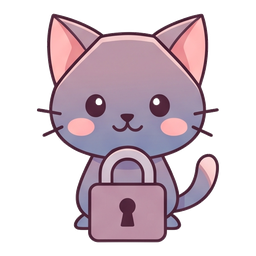
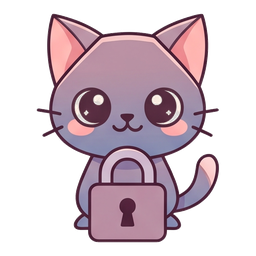
feat: bolinha no monitor dockado, animacoes de minimizar/restaurar, Kami novo e integracao IA
- bolinha abre no monitor onde o rail esta dockado, canto direito na altura 185 (clamp por monitor) e valida a posicao salva contra o monitor dockado
- minimizar anima o rail encolhendo ate a bolinha (window::shrink_to) e restaurar expande da bolinha ao rail (show_docked animated)
- duracoes de animacao do Rust mais longas (200/320/480/650 ms)
- novo mascote Kami (folha 3x3 recortada), poses e icones regerados
- Configuracoes: 'Integracao OpenCode' virou 'Integracao IA' com texto copiavel para qualquer IA
- nota do agente consolidada como indice

diff --git a/src/App.tsx b/src/App.tsx
@@ -569,11 +569,22 @@ function Editor({
   );
 }
 
-const OPENCODE_HELP = `Skill \`hashimemo\` em \`~/.config/opencode/skills/hashimemo/SKILL.md\` e regra no \`AGENTS.md\` global: toda sessão sabe que as notas ficam neste rail e como ler/gravar.
+const OPENCODE_HELP = `Cole este texto na IA que você usa (ChatGPT, Claude, Gemini, Copilot ou um agente local) para ela aprender a ler e gravar aqui.
 
-Comandos de sessão: \`/nota <texto>\` grava no grupo OpenCode; \`/notas [termo]\` lista ou busca.
+---
 
-CLI no PATH: \`hashimemo list|search|read|edit|context|new\`. Grupo OpenCode = aba no rail.`;
+Você tem acesso ao HashiMemo, um app local de notas em Markdown na borda da tela.
+
+- Pasta das notas: \`C:\\Users\\voxdata\\HashiMemo\\notes\` (um .md por nota, frontmatter YAML com title, group, color, pinned, hidden, remind_at, protected).
+- CLI no PATH: \`hashimemo\`.
+- Comandos: \`hashimemo list\`, \`hashimemo search "termo"\`, \`hashimemo read "id ou trecho"\`, \`hashimemo new --group OpenCode --title "Título" "corpo"\`, \`hashimemo edit "trecho" --append "linha"\`, \`hashimemo context --notes 5\`, \`hashimemo path\`.
+- Notas com \`protected: true\` estão cifradas e não podem ser lidas por você.
+- Ao criar algo para o usuário ler (decisão, pendência, resumo), grave no grupo \`OpenCode\` e responda só com o título.
+- Nunca copie senhas ou segredos da nota para o chat.`;
+
+function copyText(value: string) {
+  void navigator.clipboard.writeText(value).catch(() => {});
+}
 
 function SettingsPanel({
   settings,
@@ -822,8 +833,19 @@ function SettingsPanel({
         </section>
 
         <section className="border-t border-surface0/60 pt-4">
-          <p className="mb-2 text-subtext1">Integração OpenCode</p>
-          <Md text={OPENCODE_HELP} className="rounded-md border border-surface0/60 bg-base/60 px-2.5 py-2 text-xs leading-relaxed text-subtext0" />
+          <div className="mb-2 flex items-center justify-between">
+            <p className="text-subtext1">Integração IA</p>
+            <button
+              onClick={() => copyText(`Você tem acesso ao HashiMemo, um app local de notas em Markdown.\n\n- Pasta: C:\\Users\\voxdata\\HashiMemo\\notes (.md com frontmatter YAML: title, group, color, pinned, hidden, remind_at, protected)\n- CLI no PATH: hashimemo\n- Comandos: hashimemo list | search "termo" | read "id" | new --group OpenCode --title "Título" "corpo" | edit "trecho" --append "linha" | context --notes 5 | path\n- notas com protected: true estão cifradas e ilegíveis\n- grave o que for para o usuário no grupo OpenCode e responda só com o título\n- nunca copie senhas para o chat`)}
+              className="rounded bg-surface0/70 px-1.5 py-0.5 text-[0.65rem] text-subtext1 transition hover:bg-surface1"
+            >
+              copiar
+            </button>
+          </div>
+          <Md
+            text={OPENCODE_HELP}
+            className="rounded-md border border-surface0/60 bg-base/60 px-2.5 py-2 text-xs leading-relaxed text-subtext0 select-text"
+          />
         </section>
 
         <section className="space-y-1.5 border-t border-surface0/60 pt-4 text-xs text-overlay0">

diff --git a/src-tauri/src/bubble.rs b/src-tauri/src/bubble.rs
@@ -55,18 +55,14 @@ fn save_position(app: &AppHandle, x: i32, y: i32) {
     settings::save(app, &next);
 }
 
-fn on_screen(window: &WebviewWindow, x: i32, y: i32) -> bool {
-    let Ok(monitors) = window.available_monitors() else {
-        return false;
-    };
-    monitors.iter().any(|monitor| {
-        let position = monitor.position();
-        let size = monitor.size();
-        x >= position.x
-            && y >= position.y
-            && x + SIZE as i32 <= position.x + size.width as i32
-            && y + SIZE as i32 <= position.y + size.height as i32
-    })
+fn on_monitor(main: &WebviewWindow, monitor: &tauri::Monitor, x: i32, y: i32) -> bool {
+    let _ = main;
+    let position = monitor.position();
+    let size = monitor.size();
+    x >= position.x
+        && y >= position.y
+        && x + SIZE as i32 <= position.x + size.width as i32
+        && y + SIZE as i32 <= position.y + size.height as i32
 }
 
 fn work_area(window: &WebviewWindow) -> Option<(i32, i32, i32, i32)> {
@@ -98,30 +94,6 @@ fn slide_position(window: WebviewWindow, from: (i32, i32), to: (i32, i32)) {
             let _ = window.set_position(PhysicalPosition::new(x.round() as i32, y.round() as i32));
             std::thread::sleep(Duration::from_millis(16));
         }
-        let _ = window.set_position(PhysicalPosition::new(to.0, to.1));
-    });
-}
-
-fn slide_rect(
-    window: WebviewWindow,
-    from: (i32, i32, u32, u32),
-    to: (i32, i32, u32, u32),
-) {
-    std::thread::spawn(move || {
-        for step in 1..=16 {
-            let t = eased(step as f32 / 16.0);
-            let x = from.0 as f32 + (to.0 - from.0) as f32 * t;
-            let y = from.1 as f32 + (to.1 - from.1) as f32 * t;
-            let w = from.2 as f32 + (to.2 as f32 - from.2 as f32) * t;
-            let h = from.3 as f32 + (to.3 as f32 - from.3 as f32) * t;
-            let _ = window.set_position(PhysicalPosition::new(x.round() as i32, y.round() as i32));
-            let _ = window.set_size(PhysicalSize::new(
-                (w.round() as u32).max(1),
-                (h.round() as u32).max(1),
-            ));
-            std::thread::sleep(Duration::from_millis(16));
-        }
-        let _ = window.set_size(PhysicalSize::new(to.2, to.3));
         let _ = window.set_position(PhysicalPosition::new(to.0, to.1));
     });
 }
@@ -185,10 +157,10 @@ pub fn init(app: &AppHandle) {
 
 fn default_target(main: &WebviewWindow) -> (i32, i32) {
     let monitor = main
-        .primary_monitor()
+        .current_monitor()
         .ok()
         .flatten()
-        .or_else(|| main.current_monitor().ok().flatten());
+        .or_else(|| main.primary_monitor().ok().flatten());
     let Some(monitor) = monitor else {
         return (0, 0);
     };
@@ -196,34 +168,37 @@ fn default_target(main: &WebviewWindow) -> (i32, i32) {
     let left = area.position.x;
     let top = area.position.y;
     let width = area.size.width as i32;
-    (left + width - SIZE as i32 - MARGIN, top + MARGIN)
+    let height = area.size.height as i32;
+    let x = left + width - SIZE as i32 - MARGIN;
+    let y = 185.clamp(top, top + height - SIZE as i32 - 1);
+    (x, y)
 }
 
 pub fn minimize(app: &AppHandle) -> Result<(), String> {
     let main = app.get_webview_window("main").ok_or("janela principal ausente")?;
     let ball = bubble(app).ok_or("bolinha ausente")?;
 
+    crate::window::release_area(&main);
+
+    let docked = main
+        .current_monitor()
+        .ok()
+        .flatten()
+        .or_else(|| main.primary_monitor().ok().flatten());
     let stored = snapshot(app).and_then(|settings| match (settings.bubble_x, settings.bubble_y) {
         (Some(x), Some(y)) => Some((x, y)),
         _ => None,
     });
     let target = match stored {
-        Some((x, y)) if on_screen(&ball, x, y) => (x, y),
+        Some((x, y)) if docked.as_ref().is_some_and(|monitor| on_monitor(&main, monitor, x, y)) => {
+            (x, y)
+        }
         _ => default_target(&main),
     };
 
-    let start = main.outer_position().ok();
-    let size = main.outer_size().ok();
-    crate::window::release_area(&main);
-
-    if let (Some(position), Some(size)) = (start, size) {
-        slide_rect(
-            main.clone(),
-            (position.x, position.y, size.width, size.height),
-            (target.0, target.1, SIZE, SIZE),
-        );
-        std::thread::sleep(Duration::from_millis(280));
-    }
+    crate::window::shrink_to(app, target.0, target.1, SIZE, SIZE);
+    let duration = crate::window::motion_duration(app);
+    std::thread::sleep(Duration::from_millis(duration + 60));
 
     let _ = main.hide();
     let _ = ball.set_size(PhysicalSize::new(SIZE, SIZE));
@@ -237,8 +212,15 @@ pub fn minimize(app: &AppHandle) -> Result<(), String> {
 
 pub fn restore(app: &AppHandle) {
     let Some(ball) = bubble(app) else { return };
+    let rect = ball
+        .outer_position()
+        .map(|position| {
+            let size = ball.outer_size().map(|s| s.width).unwrap_or(SIZE);
+            (position.x, position.y, size, size)
+        })
+        .ok();
     let _ = ball.hide();
-    crate::window::show_docked(app, None, false);
+    crate::window::show_docked(app, rect, true);
 }
 
 pub fn reset(app: &AppHandle) {

diff --git a/src-tauri/src/window/mod.rs b/src-tauri/src/window/mod.rs
@@ -186,17 +186,36 @@ fn level_rect(level: Level, work: Rect, right: i32, width: u32) -> Rect {
     }
 }
 
+pub fn motion_duration(app: &AppHandle) -> u64 {
+    motion_ms(app)
+}
+
+pub fn shrink_to(app: &AppHandle, x: i32, y: i32, w: u32, h: u32) {
+    let Some(window) = app.get_webview_window(WINDOW_LABEL) else {
+        return;
+    };
+    let state = app.state::<AppState>();
+    anim::animate(
+        window.clone(),
+        anim::current(&window),
+        Rect { x, y, w, h },
+        state.generation.clone(),
+        None,
+        motion_ms(app),
+    );
+}
+
 fn motion_ms(app: &AppHandle) -> u64 {
     app.try_state::<crate::settings::SettingsState>()
         .map(|state| state.snapshot().motion)
         .map(|motion| match motion.as_str() {
             "off" => 0,
-            "fast" => 140,
-            "smooth" => 380,
-            "slow" => 520,
-            _ => 220,
+            "fast" => 200,
+            "smooth" => 480,
+            "slow" => 650,
+            _ => 320,
         })
-        .unwrap_or(220)
+        .unwrap_or(320)
 }
 
 fn apply(
